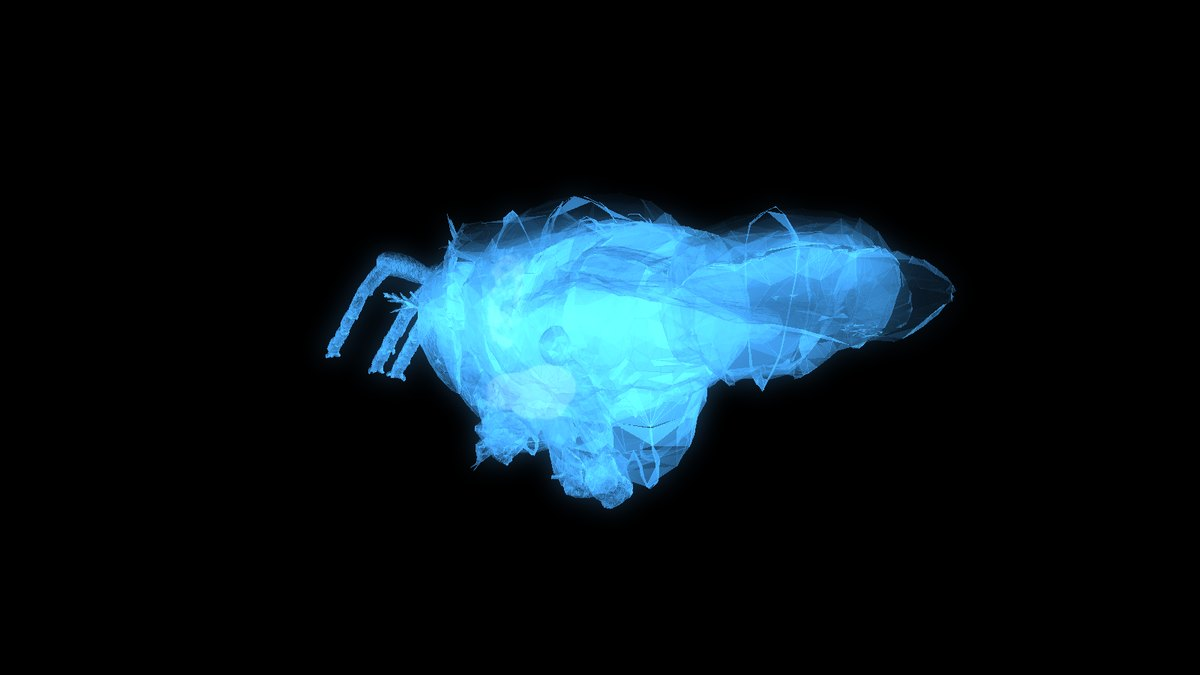
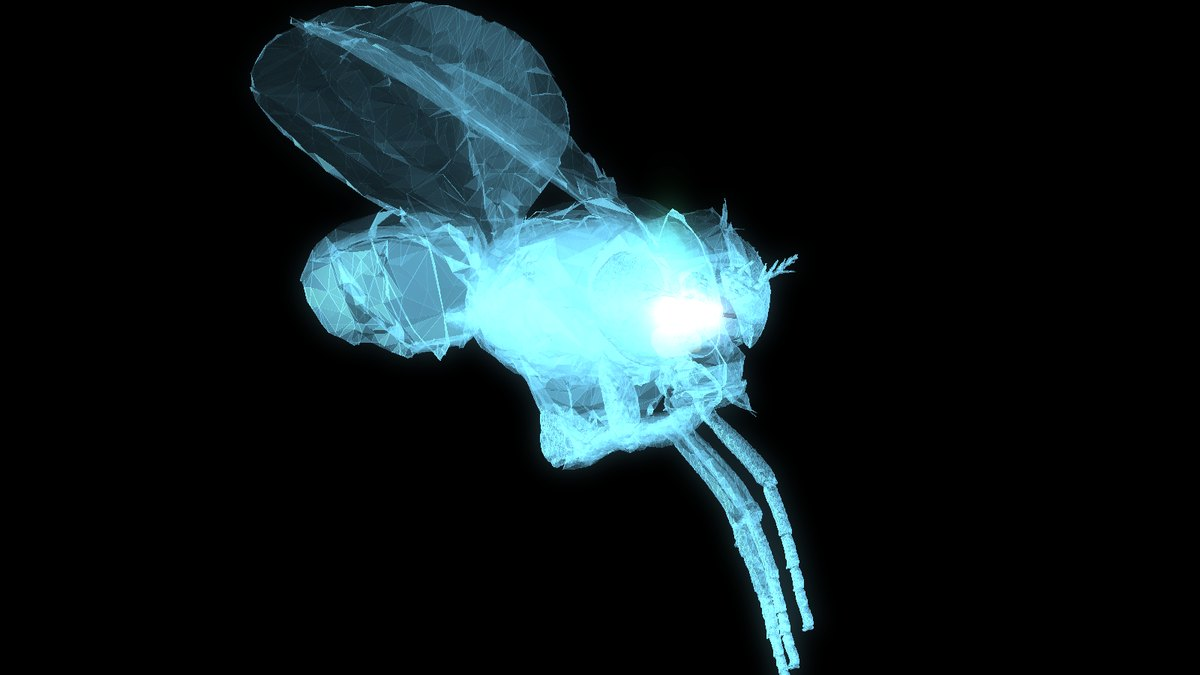
hero: match the reference look more closely
- head now faces right, wings swept back and up (both sides alike), legs angled down
  instead of dangling, framing zoomed out so nothing is cropped
- brighter cyan translucent material with softer alpha (the thorax no longer blows out)
- the brain inside the head is drawn as six coloured regions (k-means over the real soma
  positions) plus the fine neuron cloud, fitted to the head's bounding box

Changed region(s): [[0.185, 0.0, 0.8017, 1.0]]

diff --git a/scripts/render3d_fly.py b/scripts/render3d_fly.py
@@ -7,7 +7,7 @@ from PIL import Image, ImageDraw, ImageFilter
 MESH = "/workspace/fly/art/meshes"
 RIG = "/workspace/fly/art/rigging.yaml"
 W, H = 1600, 900
-BLUE = np.array([70, 170, 255], np.float32)
+BLUE = np.array([120, 215, 255], np.float32)
 
 PARENT = {
     "c_head": "c_thorax", "c_rostrum": "c_head", "c_haustellum": "c_rostrum",
@@ -96,11 +96,16 @@ def world_transforms(rig):
         else:
             Rp, tp = build(par)
             T[name] = (Rp @ R, tp + Rp @ pos)
-        if name.endswith("_coxa"):                  # swing the whole leg about its attachment
-            side = 1.0 if name[0] == "l" else -1.0
+        side = 1.0 if name[0] == "l" else -1.0
+        if name.endswith("_coxa"):                  # legs: angle down and slightly out
             Rw, tw = T[name]
-            Ry = rot_axis("y", -72.0 * side)
-            T[name] = (Ry @ Rw, tw)
+            T[name] = (rot_axis("y", -26.0 * side) @ Rw, tw)
+        if name.endswith("_wing"):                  # wings: sweep back and up, both sides alike
+            Rw, tw = T[name]
+            T[name] = (rot_axis("y", 30.0) @ rot_axis("x", -26.0 * side) @ Rw, tw)
+        if name.endswith("_haltere"):
+            Rw, tw = T[name]
+            T[name] = (rot_axis("y", 20.0 * side) @ Rw, tw)
         return T[name]
     for k in rig:
         build(k)
@@ -153,9 +158,9 @@ def main():
                            if not any(v.shape[0] == 0 for _ in [0])])
     allv = body
     c = (allv.max(0) + allv.min(0)) / 2
-    span = (allv.max(0) - allv.min(0)).max() * 0.50
-    scale = 0.92 * min(W, H) / span
-    R, proj = camera(yaw=np.pi / 2 + 0.42, pitch=-0.10, roll=0.0, scale=scale,
+    span = (allv.max(0) - allv.min(0)).max() * 0.66
+    scale = 0.86 * min(W, H) / span
+    R, proj = camera(yaw=-np.pi / 2 - 0.55, pitch=-0.16, roll=0.0, scale=scale,
                      cx=W * 0.52, cy=H * 0.52)
     # head bbox in world space (where the brain goes)
     head_v = []
@@ -189,45 +194,82 @@ def main():
         nz = N / (np.linalg.norm(N) + 1e-9)
         fres = 1.0 - abs(float(nz @ view))
         light = max(0.0, float(nz @ np.array([0.3, -0.6, -0.7], np.float32)))
-        b = 0.18 + 0.75 * fres + 0.35 * light
+        b = 0.26 + 0.72 * fres + 0.30 * light
         col = np.clip(BLUE * b, 0, 255)
-        alpha = int(np.clip(18 + 120 * fres + 40 * light, 0, 200))
+        alpha = int(np.clip(20 + 105 * fres + 32 * light, 0, 190))
         d.polygon([(float(P[0, 0]), float(P[0, 1])), (float(P[1, 0]), float(P[1, 1])),
                    (float(P[2, 0]), float(P[2, 1]))],
                   fill=(int(col[0]), int(col[1]), int(col[2]), alpha))
-    # ---- the real neuron cloud, glowing inside the head (2D composite) ----
+    # ---- the real neuron cloud, glowing inside the head ----
     try:
         import sys as _sys
         _sys.path.insert(0, "/workspace/fly/scripts")
         from brain_art import load_points, render_cloud
+        from scipy.ndimage import gaussian_filter as _gf
         if head_v is not None:
+            hc = (head_v.max(0) + head_v.min(0)) / 2          # head centre (world)
+            hs = head_v.max(0) - head_v.min(0)                # head size   (world)
             hp = proj(head_v - c)
             hx0, hx1 = float(hp[:, 0].min()), float(hp[:, 0].max())
             hy0, hy1 = float(hp[:, 1].min()), float(hp[:, 1].max())
-            hw, hh = int((hx1 - hx0) * 0.92), int((hy1 - hy0) * 0.92)
-            pts, cols = load_points(only_brain=True)
-            cloud, _, _ = render_cloud(pts, cols, W=max(hw, 40), H=max(hh, 40),
-                                       yaw=1.15, pitch=0.15, sigma=1.8, gain=1.0)
-            cg = np.asarray(cloud, np.float32)
-            cg = np.clip(cg / max(cg.max(), 1e-6) * 165.0, 0, 255)
-            cxa, cya = int((hx0 + hx1) / 2 - cg.shape[1] / 2), int((hy0 + hy1) / 2 - cg.shape[0] / 2)
+
+            pts, _ = load_points(only_brain=True)
+            pc = pts.mean(0); ps = pts.max(0) - pts.min(0)
+            kk = 0.50 * float(hs.max()) / float(ps.max())
+
+            # six neuron regions (k-means) -> the coloured blobs of the reference figure
+            sd = pts.std(0) + 1e-6
+            X = (pts / sd).astype(np.float32)
+            rng = np.random.default_rng(3)
+            C = X[rng.choice(len(X), 6, replace=False)].copy()
+            for _ in range(14):
+                dd = ((X[:, None, :] - C[None, :, :]) ** 2).sum(-1)
+                lab = dd.argmin(1)
+                for k in range(6):
+                    if (lab == k).any():
+                        C[k] = X[lab == k].mean(0)
+            PAL = np.array([[255, 70, 150], [255, 150, 40], [130, 100, 255],
+                            [40, 220, 255], [255, 230, 80], [90, 255, 160]], np.float32)
+
             canvas = np.asarray(img, np.float32)
+            for k in range(6):
+                m = lab == k
+                if m.sum() < 50:
+                    continue
+                q = (pts[m] - pc) * kk + hc
+                qp = proj(q - c)
+                cxm, cym = float(qp[:, 0].mean()), float(qp[:, 1].mean())
+                rx = float(qp[:, 0].std()) * 2.2 + 8
+                ry = float(qp[:, 1].std()) * 2.2 + 8
+                yy, xx = np.ogrid[:H, :W]
+                mask = _gf(np.exp(-(((xx - cxm) / rx) ** 2 + ((yy - cym) / ry) ** 2)), 7.0)
+                canvas += mask[:, :, None] * PAL[k][None, None, :] * 0.30
+
+            # and the fine neuron cloud itself, softly
+            hw = max(int((hx1 - hx0) * 0.55), 40); hh = max(int((hy1 - hy0) * 0.55), 40)
+            cloud, _, _ = render_cloud(pts, PAL[lab], W=hw, H=hh, yaw=1.15, pitch=0.15,
+                                       sigma=1.8, gain=1.0)
+            cg = np.asarray(cloud, np.float32)
+            cg = np.clip(cg / max(cg.max(), 1e-6) * 140.0, 0, 255)
+            mm = cg.mean(-1, keepdims=True)
+            cg = np.clip(mm + (cg - mm) * 2.0, 0, 255)
+            cxa = int((hx0 + hx1) / 2 - cg.shape[1] / 2)
+            cya = int((hy0 + hy1) / 2 - cg.shape[0] / 2)
             ys = slice(max(cya, 0), min(cya + cg.shape[0], H))
             xs = slice(max(cxa, 0), min(cxa + cg.shape[1], W))
             sub = cg[max(0, -cya):max(0, -cya) + (ys.stop - ys.start),
                      max(0, -cxa):max(0, -cxa) + (xs.stop - xs.start)]
             region = canvas[ys, xs]
-            # screen blend: brightens with the brain's colours without blowing out to white
-            canvas[ys, xs] = 255.0 - (255.0 - region) * (255.0 - sub * 0.22) / 255.0
+            canvas[ys, xs] = 255.0 - (255.0 - region) * (255.0 - sub * 0.45) / 255.0
             img = Image.fromarray(np.clip(canvas, 0, 255).astype(np.uint8))
-            print("neuron cloud composited into the head:", len(pts))
+            print("brain: 6 regions + cloud inside the head")
     except Exception as e:
         print("neuron cloud skipped:", repr(e))
 
     base = np.asarray(img, np.float32)
     bloom = np.asarray(img.filter(ImageFilter.GaussianBlur(16)), np.float32)
-    out = np.clip(base + bloom * 0.55, 0, 255).astype(np.uint8)
-    im = Image.fromarray(out)
+    out = np.clip(base + bloom * 0.38, 0, 255).astype(np.uint8)
+    im = Image.fromarray(out).transpose(Image.FLIP_LEFT_RIGHT)   # head to the right, like the reference
     im.save("/workspace/fly/art/fly_xray.png")
     im.resize((1200, 675), Image.LANCZOS).save("/workspace/fly/art/fly_xray_small.jpg", quality=86)
     print("saved fly_xray.png", im.size)
